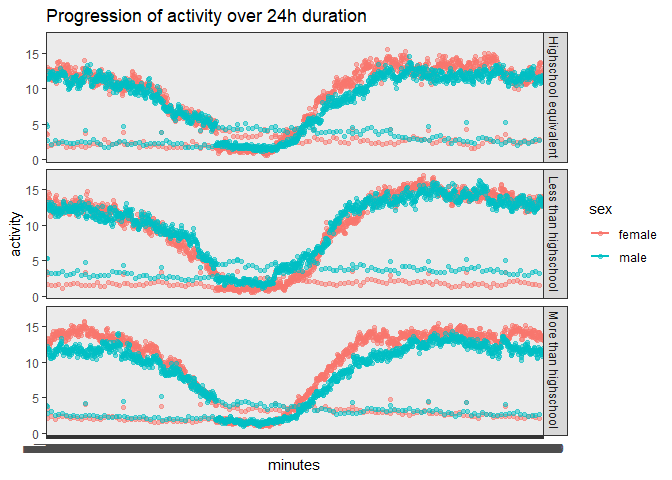
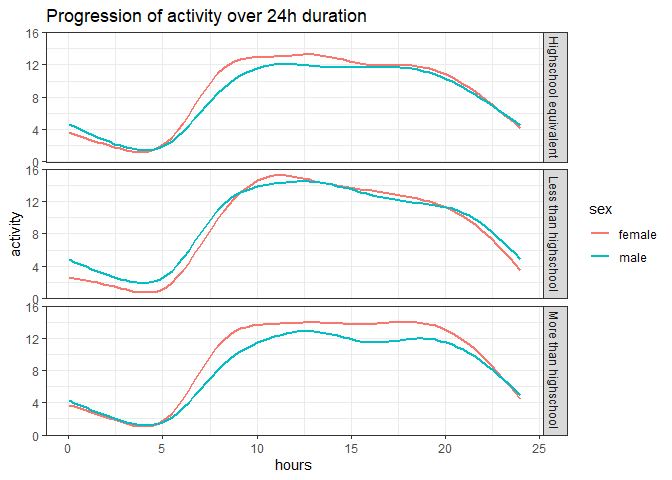
Fixing the graphs and add some description for submission

diff --git a/hw3_tpd2121.md b/hw3_tpd2121.md
@@ -6,20 +6,6 @@ Initializing the packages
 
 ``` r
 library(tidyverse)
-```
-
-    ## ── Attaching core tidyverse packages ──────────────────────── tidyverse 2.0.0 ──
-    ## ✔ dplyr     1.1.4     ✔ readr     2.1.5
-    ## ✔ forcats   1.0.0     ✔ stringr   1.5.1
-    ## ✔ ggplot2   3.5.1     ✔ tibble    3.2.1
-    ## ✔ lubridate 1.9.3     ✔ tidyr     1.3.1
-    ## ✔ purrr     1.0.2     
-    ## ── Conflicts ────────────────────────────────────────── tidyverse_conflicts() ──
-    ## ✖ dplyr::filter() masks stats::filter()
-    ## ✖ dplyr::lag()    masks stats::lag()
-    ## ℹ Use the conflicted package (<http://conflicted.r-lib.org/>) to force all conflicts to become errors
-
-``` r
 library(ggridges)
 ```
 
@@ -41,8 +27,6 @@ Cleaning the dataset
 anti_join(demography, acc_data)
 ```
 
-    ## Joining with `by = join_by(SEQN)`
-
     ## [1] SEQN      sex       age       BMI       education
     ## <0 rows> (or 0-length row.names)
 
@@ -50,7 +34,7 @@ anti_join(demography, acc_data)
 #joining the dataset
 complete_acc = 
   full_join(demography, acc_data, by = "SEQN") %>% 
-  filter(age >21) %>% 
+  filter(age >= 21) %>% 
   mutate(
     sex = as.character(sex),
     sex = case_match(
@@ -77,20 +61,17 @@ complete_acc %>%
   knitr::kable()
 ```
 
-    ## `summarise()` has grouped output by 'sex'. You can override using the `.groups`
-    ## argument.
-
 | sex    | Highschool equivalent | Less than highschool | More than highschool |
 |:-------|----------------------:|---------------------:|---------------------:|
 | female |                    23 |                   28 |                   59 |
-| male   |                    34 |                   27 |                   54 |
+| male   |                    35 |                   27 |                   56 |
 
 Based on the table, we see that there are slightly more male than female
 participants. Based on education we see that the highest number of
-participants have education more than high school and the numbers are
-roughly the same in both sexes. The number of male and female with less
-than high school education was around the same, but there are more male
-compared to female in the high school equivalent category.
+participants have education more than high school and there are slightly
+more female than male in this category. The number of male and female
+with less than high school education was around the same, but there are
+more male compared to female in the high school equivalent category.
 
 ``` r
 complete_acc %>% 
@@ -101,19 +82,20 @@ complete_acc %>%
     title = "Age distribution based on education and sex")
 ```
 
-![](hw3_tpd2121_files/figure-gfm/visualization-1.png)<!-- --> I chose
-boxplot because it’s able to show the distribution more clearly compared
-to histogram or density plot. Looking at the `more than high school`
-category, we see that despite female having slightly more participants
-in the category compared to male, we see that in terms of distribution,
-male have slightly older age compared to female in the category based on
-the interquartile range of the boxplot. For the `less than high school`
-category, the numbers and distribution are similar for both male and
-female, but we see that male has younger participants (longer bottom
-tail). And finally, for the `high school equivalent`, we see that
-despite female having lower number of participants, the interquartile
-range of the boxplot showed that female participants in the category is
-older compared to male.
+![](hw3_tpd2121_files/figure-gfm/visualization-1.png)<!-- -->
+
+I chose boxplot because it’s able to show the distribution more clearly
+compared to histogram or density plot. Looking at the
+`more than high school` category, we see that despite female having
+slightly more participants in the category compared to male, we see that
+in terms of distribution, male have slightly older age compared to
+female in the category based on the interquartile range of the boxplot.
+For the `less than high school` category, the numbers and distribution
+are similar for both male and female, but we see that male has younger
+participants (longer bottom tail). And finally, for the
+`high school equivalent`, we see that despite female having lower number
+of participants, the interquartile range of the boxplot showed that
+female participants in the category is older compared to male.
 
 **2C. Total activity over the day**
 
@@ -138,13 +120,7 @@ ggplot(total_df, aes(x = age, y = act_total, color = sex)) +
     caption = "Data from the NHAES package")
 ```
 
-    ## `geom_smooth()` using method = 'loess' and formula = 'y ~ x'
-
 ![](hw3_tpd2121_files/figure-gfm/total_plot-1.png)<!-- -->
-
-``` r
-#do facet_grid (sex ~ education) if want to make 6 panel
-```
 
 Using scatter plot, the data seems quite scattered and no pattern would
 seem clear for us readers if not for the smooth trend line added to each
@@ -163,13 +139,7 @@ activities until age 60 before declining. In male participants, there’s
 a slight dip from around age 20s to 40s, before slightly jumping up and
 declining again at around age 50.
 
-**2D. 3 panel plot** Accelerometer data allows the inspection activity
-over the course of the day. Make a three-panel plot that shows the
-24-hour activity time courses for each education level and use color to
-indicate sex. Describe in words any patterns or conclusions you can make
-based on this graph; including smooth trends may help identify
-differences. x axis = minutes, y axis = mean activity, color line = sex,
-panel = education
+**2D. 3 panel plot**
 
 ``` r
 timecourse_df = 
@@ -180,20 +150,17 @@ timecourse_df =
   pivot_longer(
     min1:min1440,
     names_to = "minutes",
+    names_prefix = "min",
     values_to = "activity"
+    ) %>% 
+  mutate(
+    minutes = as.numeric(minutes),
+    hours = minutes/60
     )
 ```
 
-    ## `summarise()` has grouped output by 'sex'. You can override using the `.groups`
-    ## argument.
-
 ``` r
-#trying to convert the minutes to hours, then plot the hours to the data
-```
-
-``` r
-ggplot(timecourse_df, aes(x = minutes, y = activity, color = sex)) + 
-  geom_point(alpha = .5) +
+ggplot(timecourse_df, aes(x = hours, y = activity, color = sex)) + 
   geom_smooth(se = FALSE) + 
   facet_grid(education ~ .) + 
   theme_bw() + 
@@ -201,11 +168,20 @@ ggplot(timecourse_df, aes(x = minutes, y = activity, color = sex)) +
     title = "Progression of activity over 24h duration")
 ```
 
-    ## `geom_smooth()` using method = 'loess' and formula = 'y ~ x'
-
 ![](hw3_tpd2121_files/figure-gfm/timecourse_plot-1.png)<!-- -->
 
-Describe any patterns or comments from this graph
+The line graph describe the progression of physical activity over 24
+hours. The graph shows how physical activity corresponds to human
+general activity patterns and generally have similar patterns across
+education level. The observation start from hour 0, which is midnight,
+and we see declining trend between until hour 5, which corresponds to
+the early hours in the morning where people are going to bed/asleep. At
+around 5 AM, people tend to wake up so we see increasing activity until
+hour 20, or around 8 pm, when activities tend to slightly dip or plateau
+as people finished working. Female generally has higher activities
+compared to males, and people with less that high school education have
+the highest activities measurement compared to the other 2 education
+categories.
 
 ## Problem 3
 
@@ -213,21 +189,25 @@ Describe any patterns or comments from this graph
 
 ``` r
 jan_2020 = read.csv("./Jan 2020 Citi.csv") %>% 
+  drop_na() %>% 
   janitor::clean_names() %>%
   mutate(time = "jan_20") %>% 
   select(time, everything())
 
 jan_2024 = read.csv("./Jan 2024 Citi.csv") %>% 
+  drop_na() %>% 
   janitor::clean_names() %>%
   mutate(time = "jan_24") %>% 
   select(time, everything())
 
 jul_2020 = read.csv("./July 2020 Citi.csv") %>% 
+  drop_na() %>% 
   janitor::clean_names() %>%
   mutate(time = "jul_20") %>% 
   select(time, everything())
 
 jul_2024 = read.csv("./July 2024 Citi.csv") %>% 
+  drop_na() %>% 
   janitor::clean_names() %>%
   mutate(time = "jul_24") %>% 
   select(time, everything())
@@ -237,9 +217,9 @@ citibike_df =
 ```
 
 There are 4 data set in the citibike folder. The January 2020 data
-contains 12420 observations, while the January 2024 data contains 18861
-observations. Meanwhile, the July 2020 data contains 21048 observations
-while the July 2024 contains 47156 observations. The variables on all
+contains 12398 observations, while the January 2024 data contains 18799
+observations. Meanwhile, the July 2020 data contains 21013 observations
+while the July 2024 contains 47043 observations. The variables on all
 data frame are quite similar, which are time, ride_id, rideable_type,
 weekdays, duration, start_station_name, end_station_name, member_casual,
 with the variable `time` is an additional variable I created to help
@@ -255,90 +235,67 @@ citibike_df %>%
   knitr::kable()
 ```
 
-    ## `summarise()` has grouped output by 'time'. You can override using the
-    ## `.groups` argument.
-
 | member_casual | jan_20 | jan_24 | jul_20 | jul_24 |
 |:--------------|-------:|-------:|-------:|-------:|
-| casual        |    984 |   2108 |   5637 |  10894 |
-| member        |  11436 |  16753 |  15411 |  36262 |
+| casual        |    980 |   2094 |   5625 |  10843 |
+| member        |  11418 |  16705 |  15388 |  36200 |
 
 From this table, we can see that in citibike members have higher
 ridership compared to casual riders from these 4 time points. We also
 see that while member ridership are increasing, the casual riders have a
 steep drop from `jul_20` to `jan_24`.
 
-**3C. 5 popular stations** Make a table showing the 5 most popular
-starting stations for July 2024; include the number of rides originating
-from these stations.
+**3C. 5 popular stations**
 
 ``` r
 jul_2024 %>% 
   group_by(start_station_name) %>% 
   count(start_station_name, name = "ride_count") %>% 
-  mutate(ride_ranking = min_rank(ride_count))
+  arrange(desc(ride_count)) %>% 
+  filter(ride_count >= 145) %>% 
+  knitr::kable(
+    col.names = c("Origin Station Name", "Number of Rides")
+  )
 ```
 
-    ## # A tibble: 2,057 × 3
-    ## # Groups:   start_station_name [2,057]
-    ##    start_station_name ride_count ride_ranking
-    ##    <chr>                   <int>        <int>
-    ##  1 1 Ave & E 110 St           33            1
-    ##  2 1 Ave & E 118 St           21            1
-    ##  3 1 Ave & E 16 St            73            1
-    ##  4 1 Ave & E 18 St            75            1
-    ##  5 1 Ave & E 30 St            57            1
-    ##  6 1 Ave & E 38 St            78            1
-    ##  7 1 Ave & E 39 St            68            1
-    ##  8 1 Ave & E 44 St            17            1
-    ##  9 1 Ave & E 6 St             85            1
-    ## 10 1 Ave & E 62 St            79            1
-    ## # ℹ 2,047 more rows
+| Origin Station Name      | Number of Rides |
+|:-------------------------|----------------:|
+| Pier 61 at Chelsea Piers |             163 |
+| University Pl & E 14 St  |             155 |
+| W 21 St & 6 Ave          |             152 |
+| West St & Chambers St    |             150 |
+| W 31 St & 7 Ave          |             145 |
 
-``` r
-  #how to do the rank function??
-  #then do the plot
-```
-
-3D. Plot Make a plot to investigate the effects of day of the week,
-month, and year on median ride duration. This plot can include one or
-more panels, but should facilitate comparison across all variables of
-interest. Comment on your observations from this plot.
+**3D. Plot to investigate the effects of day of the week, month, and
+year on median ride duration**
 
 ``` r
 citibike_df %>% 
   group_by(time, weekdays) %>% 
   summarise(
     median = median(duration, na.rm = TRUE)) %>% 
-  ggplot(aes(x = weekdays, y = median)) + 
-  geom_point(aes(color = time)) +
-  geom_smooth(se = FALSE) +
-  theme_bw() + 
-  facet_grid (time ~.) + 
+  ggplot(aes(x = weekdays, y = median, color = time)) + 
+  geom_point() +
+  theme_bw() +
+  theme(axis.text.x = element_text(angle = 45, hjust  =1),
+        legend.position = "bottom") +
+  facet_grid(.~ time) +
   labs(
     title = "Ride duration over week and 4 timepoints", 
     x = "days of the week",
     y = "median of ride duration")
 ```
 
-    ## `summarise()` has grouped output by 'time'. You can override using the
-    ## `.groups` argument.
-    ## `geom_smooth()` using method = 'loess' and formula = 'y ~ x'
-
 ![](hw3_tpd2121_files/figure-gfm/ride%20median-1.png)<!-- -->
 
-``` r
-#the trendline is missing
-#can remove the panel and merge into 1 if you want
-#x axis sorted alphabetically, not days in orders
-```
+From the plot, we can see that `Jul_20` has the highest ridership median
+compared to the other month-year timepoint, while `Jan_24` has the
+lowest. Generally, Julys have higher ridership compared to Januarys.
+When looking at the days, we see that Saturdays and Sundays generally
+have the highest median across all month-year time points, except in Jan
+24 where the highest median duration is on Friday and Saturday.
 
-From the plot, we can see that Jul 2020 has the highest ridership median
-compared to the other month-year timepoint. When looking at the days, we
-see that Saturdays generally have the highest median across all
-month-year time points.
-
-3E. Electric bikes
+**3E. Electric bikes**
 
 ``` r
 citibike_df %>% 
@@ -356,8 +313,9 @@ citibike_df %>%
     color = "types of riders")
 ```
 
-![](hw3_tpd2121_files/figure-gfm/electric-1.png)<!-- --> I used
-univariate plot, in this case histogram, since only 1 variable is
+![](hw3_tpd2121_files/figure-gfm/electric-1.png)<!-- -->
+
+I used univariate plot, in this case histogram, since only 1 variable is
 numerical variable. Based on the plot, we can see that members always
 have higher ridership compared to casual riders and electric bikes have
 higher ridership compared to non-electric bikes. In terms of duration,
